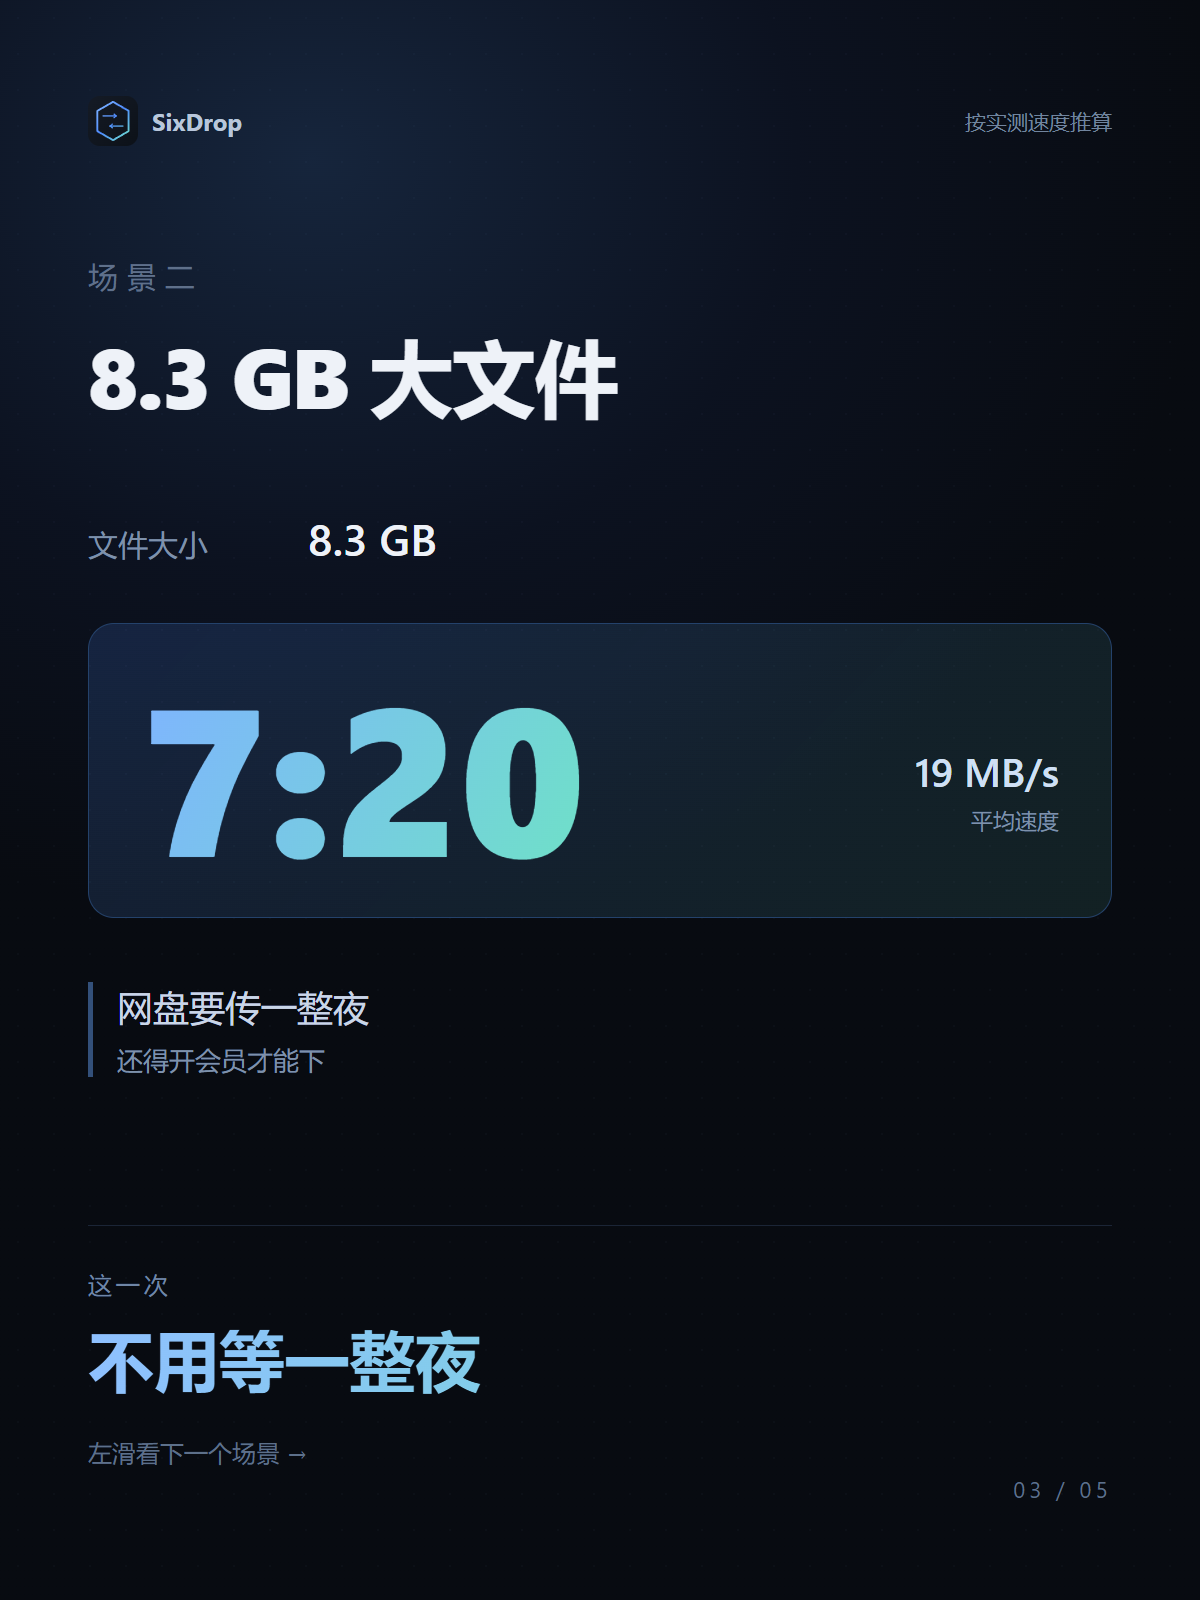
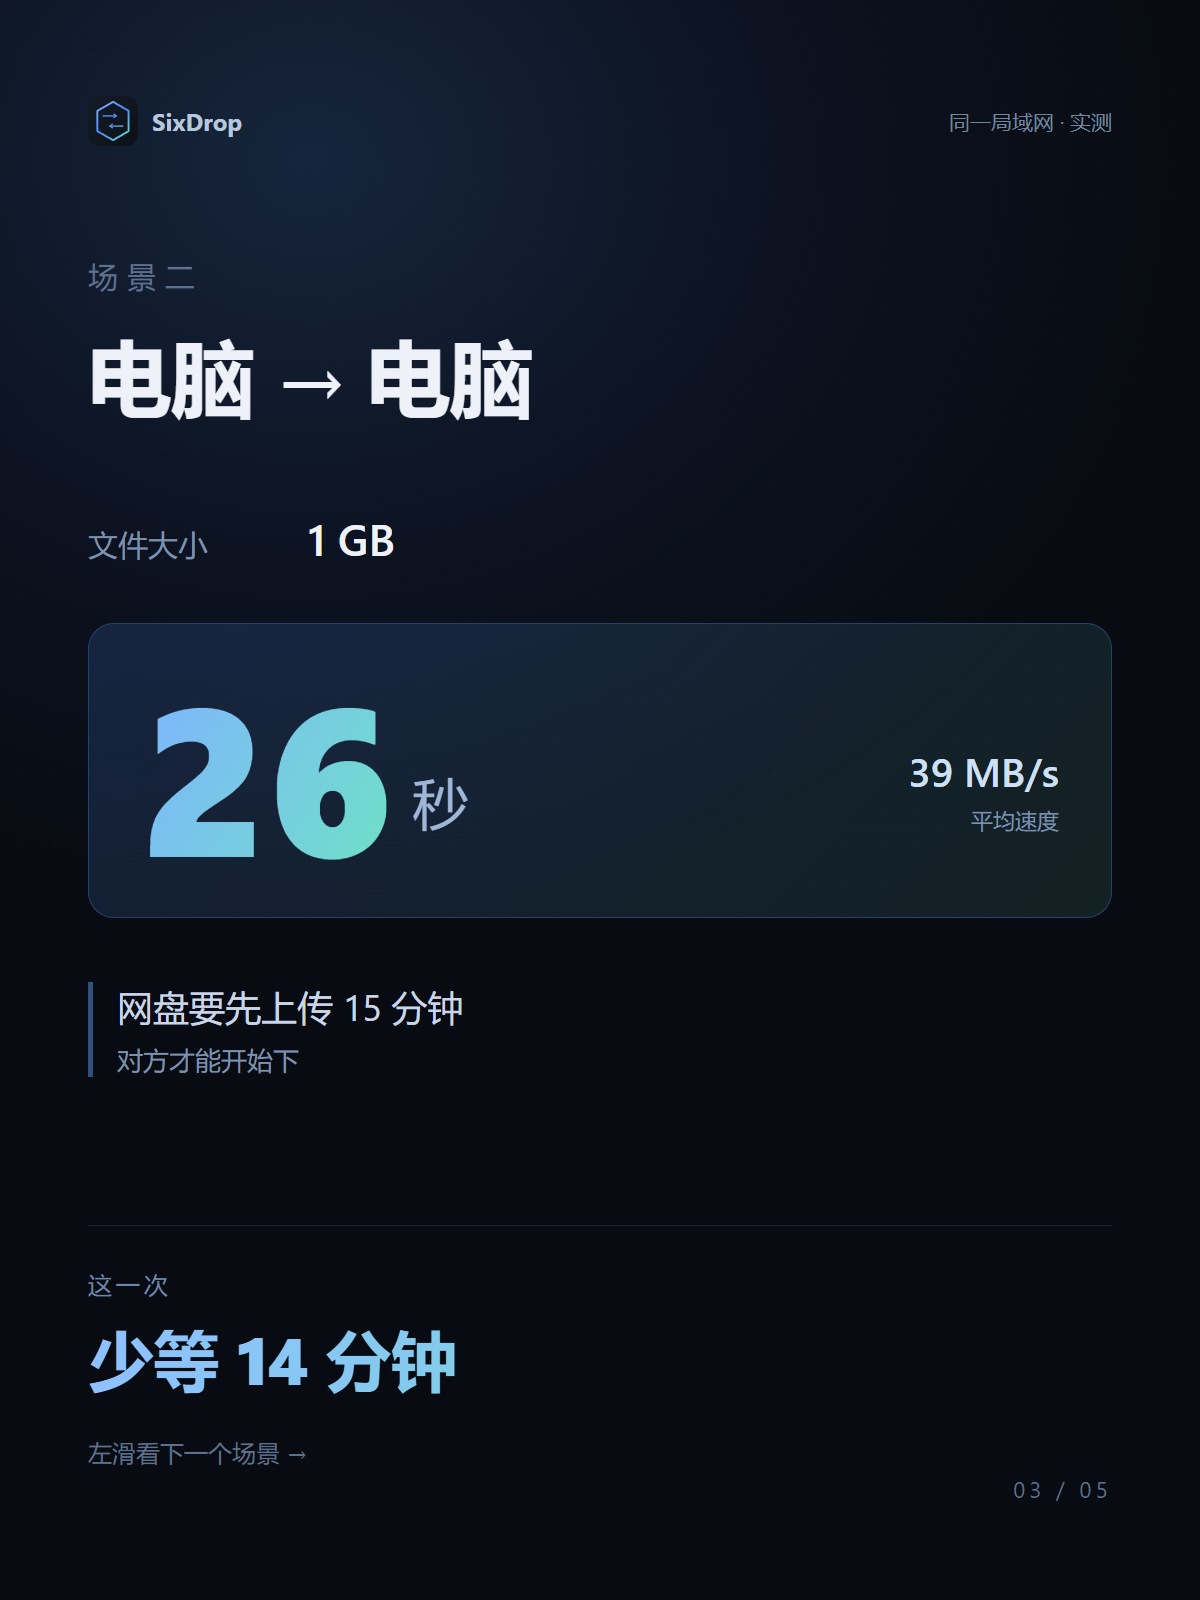
test: LAN measurements against a PVE host (40-50 MB/s, phone was the bottleneck)
- tools/pve-receive.py / pve-send.py: headless Chromium over CDP, no puppeteer needed
- 1 GB PC -> PVE: 25.5 s, 39 MB/s average, 45-50 MB/s steady
- earlier ~19 MB/s ceiling was Chrome-on-Android, not WebRTC
- douyin card 2 now uses the measured 1 GB / 26 s / 39 MB/s

diff --git a/tools/pve-send.py b/tools/pve-send.py
@@ -1,0 +1,128 @@
+#!/usr/bin/env python3
+"""
+在 PVE 上用无头 Chromium 当发送端，造一个 300 MB 文件发出去。
+用法: python3 pve-send.py [MB]
+"""
+import json
+import subprocess
+import sys
+import time
+import urllib.request
+
+import websocket
+
+MB = int(sys.argv[1]) if len(sys.argv) > 1 else 300
+CHROME = "/usr/bin/chromium"
+PORT = 9223
+URL = "https://sixdrop.dev"
+
+proc = subprocess.Popen(
+    [
+        CHROME,
+        "--headless=new",
+        "--no-sandbox",
+        "--disable-gpu",
+        "--disable-dev-shm-usage",
+        f"--remote-debugging-port={PORT}",
+        "--remote-allow-origins=*",
+        "--user-data-dir=/tmp/chr-sixdrop-send",
+        URL,
+    ],
+    stdout=subprocess.DEVNULL,
+    stderr=subprocess.DEVNULL,
+)
+
+
+def target():
+    for _ in range(120):
+        try:
+            data = json.load(urllib.request.urlopen(f"http://127.0.0.1:{PORT}/json", timeout=2))
+            for t in data:
+                if t.get("type") == "page" and "sixdrop" in (t.get("url") or ""):
+                    return t
+        except Exception:
+            pass
+        time.sleep(0.3)
+    raise RuntimeError("拿不到调试目标")
+
+
+info = target()
+ws = websocket.create_connection(info["webSocketDebuggerUrl"], timeout=900, suppress_origin=True)
+msg_id = 0
+
+
+def call(method, params=None):
+    global msg_id
+    msg_id += 1
+    ws.send(json.dumps({"id": msg_id, "method": method, "params": params or {}}))
+    while True:
+        resp = json.loads(ws.recv())
+        if resp.get("id") == msg_id:
+            return resp
+
+
+call("Runtime.enable")
+
+# 1) 造文件、建房、把取件码打出来
+START = """
+(async () => {
+  const sleep = (ms) => new Promise((r) => setTimeout(r, ms));
+  for (let i = 0; i < 150 && !document.getElementById('file'); i++) await sleep(100);
+  const size = %d * 1024 * 1024;
+  const bytes = new Uint8Array(size);
+  for (let i = 0; i < size; i += 4096) bytes[i] = (i / 4096) & 255;
+  const dt = new DataTransfer();
+  dt.items.add(new File([bytes], 'pve-%dmb.bin', { type: 'application/octet-stream' }));
+  const input = document.getElementById('file');
+  input.files = dt.files;
+  input.dispatchEvent(new Event('change', { bubbles: true }));
+  for (let i = 0; i < 200; i++) {
+    const c = document.getElementById('room-code').textContent.trim();
+    if (/^[2-9A-HJ-NP-Z]{6}$/.test(c)) return c;
+    await sleep(100);
+  }
+  return '';
+})()
+""" % (MB, MB)
+
+resp = call("Runtime.evaluate", {"expression": START, "awaitPromise": True, "returnByValue": True})
+raw = resp.get("result", {})
+if raw.get("exceptionDetails"):
+    print("  EXC " + json.dumps(raw["exceptionDetails"])[:600], flush=True)
+code = str(raw.get("result", {}).get("value") or "")
+print(f"CODE {code}", flush=True)
+if not code:
+    print("  RESULT {\"error\": \"no code\"}")
+    sys.exit(1)
+
+# 2) 等待对方接入并完成
+WAIT = """
+(async () => {
+  const sleep = (ms) => new Promise((r) => setTimeout(r, ms));
+  let started = 0;
+  let last = '';
+  for (let i = 0; i < 6000; i++) {
+    await sleep(200);
+    const sub = document.getElementById('xfer-sub');
+    const st = document.getElementById('xfer-stats');
+    if (sub && /发送完成/.test(sub.textContent)) {
+      return JSON.stringify({
+        seconds: started ? (Date.now() - started) / 1000 : 0,
+        last: st ? st.textContent : '',
+        path: (document.getElementById('path') || {}).textContent || '',
+        verify: (document.getElementById('verify-code') || {}).textContent || '',
+      });
+    }
+    if (!started && st && /\\d/.test(st.textContent) && !/准备中/.test(st.textContent)) {
+      started = Date.now();
+    }
+  }
+  return JSON.stringify({ error: 'timeout' });
+})()
+"""
+
+resp = call("Runtime.evaluate", {"expression": WAIT, "awaitPromise": True, "returnByValue": True})
+print("  RESULT " + str(resp.get("result", {}).get("result", {}).get("value")))
+
+ws.close()
+proc.terminate()

diff --git a/tools/pve-receive.py b/tools/pve-receive.py
@@ -1,0 +1,124 @@
+#!/usr/bin/env python3
+"""
+在 PVE 上用无头 Chromium + CDP 当接收端，测六位码传输速度。
+用法: python3 pve-receive.py <取件码>
+"""
+import json
+import subprocess
+import sys
+import time
+import urllib.request
+
+import websocket
+
+CODE = (sys.argv[1] if len(sys.argv) > 1 else "").upper()
+if len(CODE) != 6:
+    print("用法: python3 pve-receive.py <6位取件码>")
+    sys.exit(1)
+
+CHROME = "/usr/bin/chromium"
+PORT = 9222
+URL = "https://sixdrop.dev"
+
+proc = subprocess.Popen(
+    [
+        CHROME,
+        "--headless=new",
+        "--no-sandbox",
+        "--disable-gpu",
+        "--disable-dev-shm-usage",
+        f"--remote-debugging-port={PORT}",
+        "--remote-allow-origins=*",
+        "--user-data-dir=/tmp/chr-sixdrop",
+        URL,
+    ],
+    stdout=subprocess.DEVNULL,
+    stderr=subprocess.DEVNULL,
+)
+
+
+def target():
+    for _ in range(100):
+        try:
+            data = json.load(urllib.request.urlopen(f"http://127.0.0.1:{PORT}/json", timeout=2))
+            for t in data:
+                if t.get("type") == "page" and "sixdrop" in (t.get("url") or ""):
+                    return t
+        except Exception:
+            pass
+        time.sleep(0.3)
+    raise RuntimeError("拿不到调试目标")
+
+
+info = target()
+ws = websocket.create_connection(
+    info["webSocketDebuggerUrl"], timeout=300, suppress_origin=True
+)
+msg_id = 0
+
+
+def call(method, params=None):
+    global msg_id
+    msg_id += 1
+    ws.send(json.dumps({"id": msg_id, "method": method, "params": params or {}}))
+    while True:
+        resp = json.loads(ws.recv())
+        if resp.get("id") == msg_id:
+            return resp
+
+
+call("Runtime.enable")
+
+SCRIPT = """
+(async () => {
+  const sleep = (ms) => new Promise((r) => setTimeout(r, ms));
+  for (let i = 0; i < 150 && !document.getElementById('code'); i++) await sleep(100);
+  const codeEl = document.getElementById('code');
+  if (!codeEl) return JSON.stringify({ error: 'page not ready' });
+
+  // 无头 Linux Chromium 可能有 File System Access，先关掉，逼它走内存分支
+  window.showSaveFilePicker = undefined;
+  window.showDirectoryPicker = undefined;
+
+  codeEl.value = '%s';
+  codeEl.dispatchEvent(new Event('input', { bubbles: true }));
+  document.getElementById('join').requestSubmit();
+
+  for (let i = 0; i < 1200; i++) {
+    if (!document.getElementById('view-ask').hidden) break;
+    await sleep(100);
+  }
+  if (document.getElementById('view-ask').hidden) {
+    return JSON.stringify({ error: 'no ask dialog' });
+  }
+
+  const sizeLine = document.getElementById('ask-size').textContent.trim();
+  const path = (document.getElementById('path') || {}).textContent || '';
+  const verify = (document.getElementById('verify-code') || {}).textContent || '';
+  const started = Date.now();
+  document.getElementById('accept').click();
+
+  let last = '';
+  for (let i = 0; i < 3000; i++) {
+    await sleep(200);
+    const st = document.getElementById('xfer-stats');
+    if (st && st.textContent !== last) last = st.textContent;
+    const back = document.getElementById('back');
+    if (back && !back.hidden) {
+      const seconds = (Date.now() - started) / 1000;
+      return JSON.stringify({ sizeLine, seconds, last, path, verify });
+    }
+  }
+  return JSON.stringify({ error: 'timeout', last });
+})()
+""" % CODE
+
+resp = call(
+    "Runtime.evaluate",
+    {"expression": SCRIPT, "awaitPromise": True, "returnByValue": True},
+)
+value = resp.get("result", {}).get("result", {}).get("value")
+print("  RESULT " + str(value))
+
+ws.close()
+proc.terminate()
